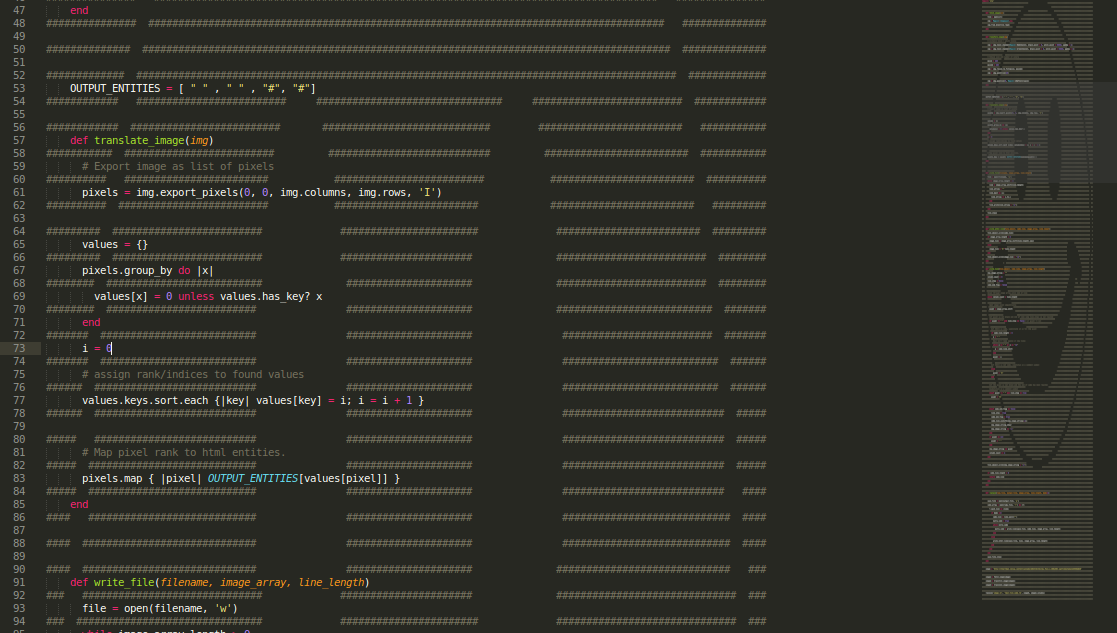
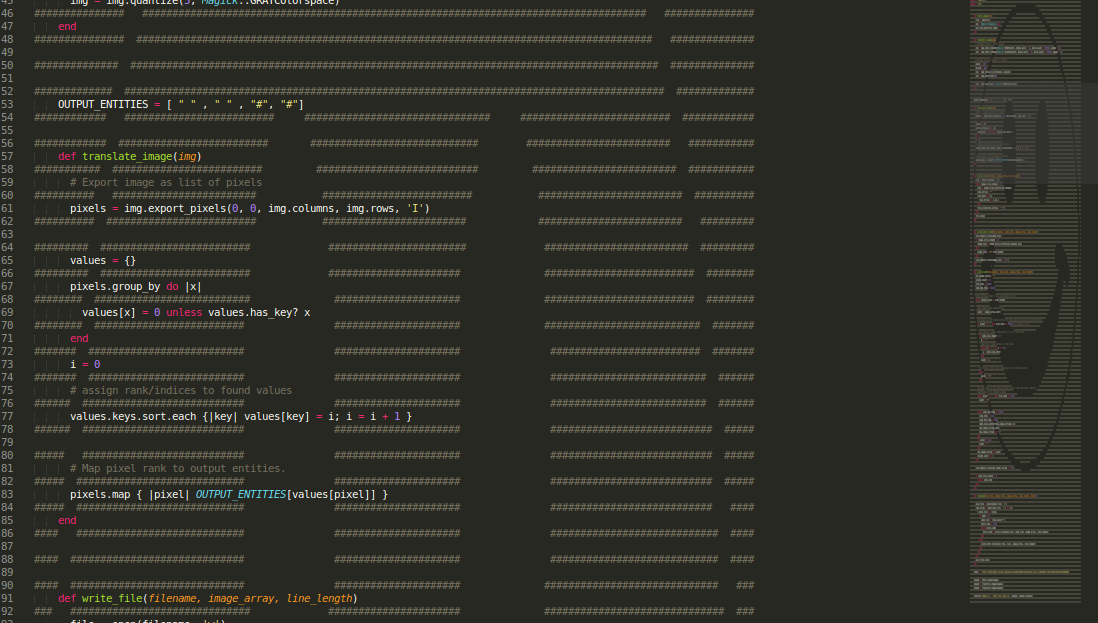
update example image

diff --git a/test_file_code.rb b/test_file_code.rb
@@ -78,7 +78,7 @@ require 'pry'
 ######  ###########################               #####################               ###########################  #####
 
 #####   ###########################               #####################               ###########################  #####
-      # Map pixel rank to html entities.
+      # Map pixel rank to output entities.
 #####  ############################               #####################               ###########################  #####
       pixels.map { |pixel| OUTPUT_ENTITIES[values[pixel]] }
 #####  ############################               #####################               ###########################   ####
